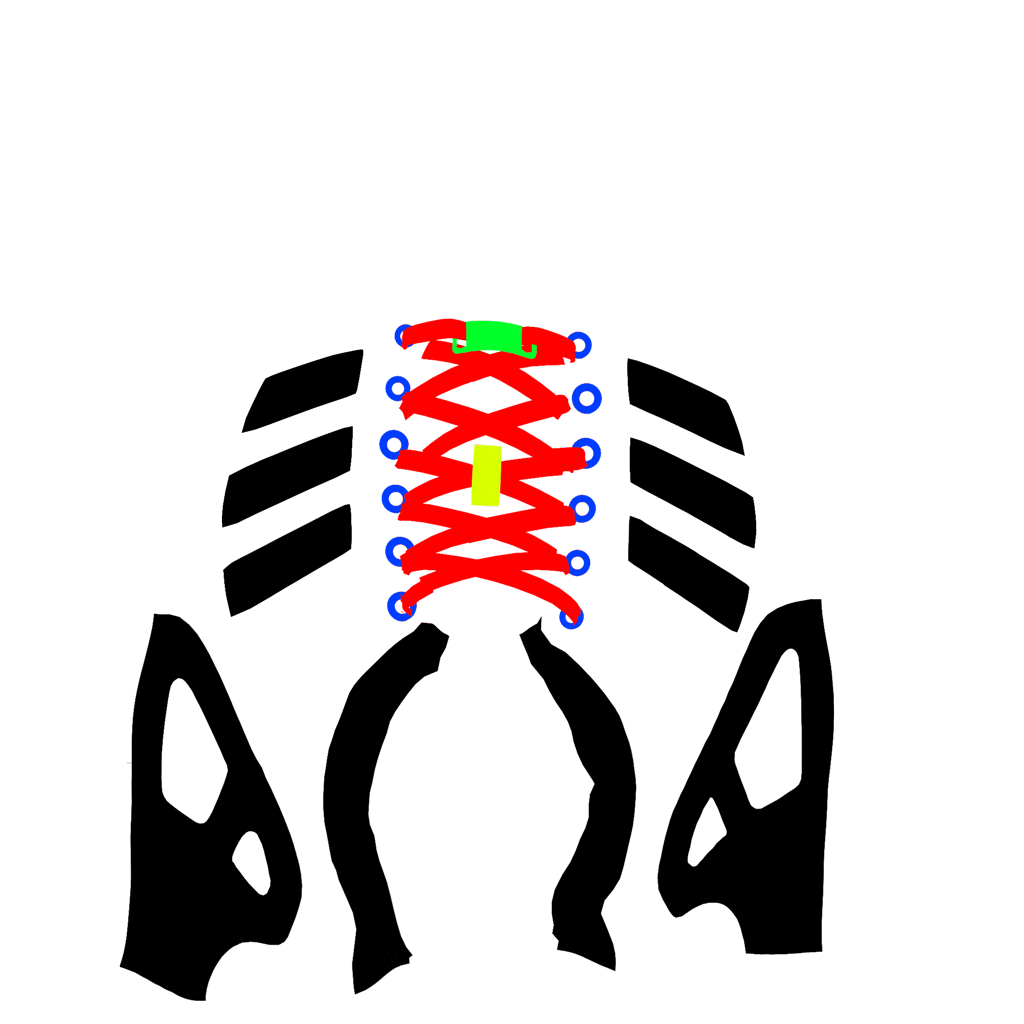
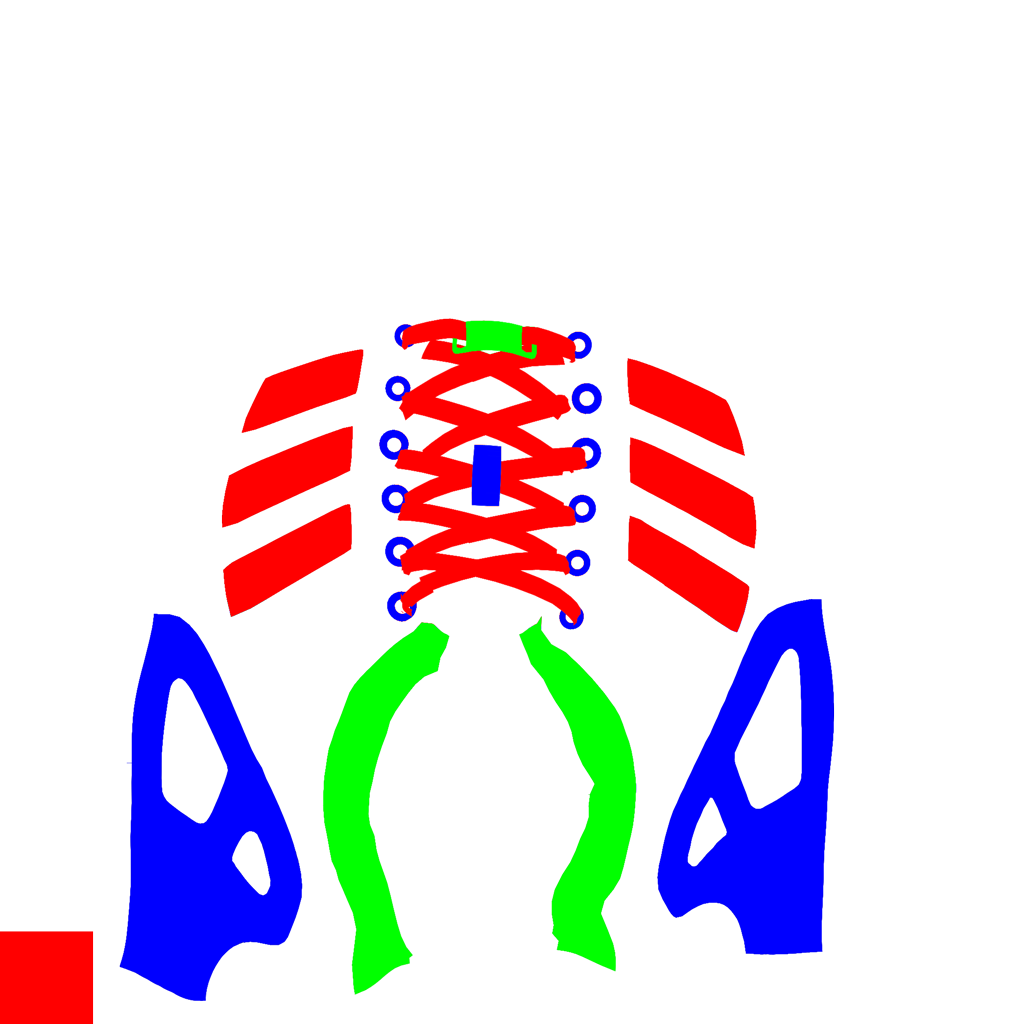
wireframe transitions

diff --git a/FluxOF/src/Animations/RenderRadar.cpp b/FluxOF/src/Animations/RenderRadar.cpp
@@ -16,9 +16,8 @@ void RenderRadar::selfSetup(){
     audioBufferSize = 256;
     audioIn.setup(44100, audioBufferSize);
     audioIn.start();
-    audioPixels.allocate(audioBufferSize,1, GL_RGB16F);
-    
-    ofDisa
+    audioPixels.allocate(audioBufferSize,1,3);
+    audioTex.allocate(audioBufferSize,1, GL_RGB16F);
     
     //  USERNAME TEXT
     //
@@ -36,18 +35,23 @@ void RenderRadar::selfSetup(){
     radarShader.loadFrag(getDataPath()+"shaders/radar.frag");
     radarTexture.allocate(assets->terrainResolution(),assets->terrainResolution());
     
+    terrainMeshTransition.loadFrag(getDataPath()+"shaders/terrainMeshTrans.frag");
+    terrainMeshTransitionTex.allocate(assets->terrainResolution(),assets->terrainResolution());
+    
     terrainTransition.loadFrag(getDataPath()+"shaders/terrainTrans.frag");
     terrainTransitionTex.allocate(assets->terrainResolution(),assets->terrainResolution());
     terrainTransitionTex.clear();
     
     ofDisableArbTex();
+    
+    terrainMeshTex.allocate(assets->terrainResolution(),assets->terrainResolution());
+    
     terrainTex.allocate(assets->terrainResolution(),assets->terrainResolution());
     terrainTex.begin();
     ofClear(0, 0);
     terrainTex.end();
     
     shoeTex.allocate(100, 100);
-    
     ofEnableArbTex();
 }
 
@@ -59,7 +63,9 @@ void RenderRadar::selfSetupGuis(){
     
     guiAdd(noiseShader);
     guiAdd(radarShader);
+    
     guiAdd(terrainTransition);
+    guiAdd(terrainMeshTransition);
     
     guiAdd(shoeTransition);
 }
@@ -79,6 +85,8 @@ void RenderRadar::selfSetupSystemGui(){
     
     sysGui->addLabel("Text");
     sysGui->add2DPad("Text_offset", ofVec2f(0,assets->terrainResolution()),ofVec2f(0,assets->terrainResolution()), &textOffset);
+    sysGui->addSlider("Text_Alpha", 0.0, 1.0, &textAlpha);
+    
 
 }
 
@@ -109,18 +117,27 @@ void RenderRadar::selfUpdate(){
         cameraEnable(false);
         setupRenderIsFlipped(true);
     }
-
+    
+    //  Audio
+    //
+//    for (int x = 0; x < audioBufferSize; x++){
+//        audioPixels.setColor(x, 0, ofFloatColor(abs(sin(audioIn.left[x]*100.0)),0.0,0.0,1.0));
+//    }
+//    audioTex.loadData(audioPixels);
+    
     //  USERNAME TEXTURE
     //
     {
         textTex.begin();
+        ofPushStyle();
         ofClear(0,0);
-        ofSetColor(255);
+        ofSetColor(255, textAlpha*255.0);
         ofPushMatrix();
         ofTranslate(textOffset);
         ofPoint textCenter = assets->font.getStringBoundingBox(text,0,0).getCenter();
         assets->font.drawString(text, -textCenter.x, -textCenter.y );
         ofPopMatrix();
+        ofPopStyle();
         textTex.end();
     }
     
@@ -171,7 +188,9 @@ void RenderRadar::selfUpdate(){
         terrainTransition.getShader().setUniformTexture("depthMap", assets->terrainDepthMap, 1);
         terrainTransition.getShader().setUniformTexture("maskTex", assets->terrainMask, 2);
         terrainTransition.getShader().setUniformTexture("normalMap", noiseTexture, 3);
-        terrainTransition.getShader().setUniformTexture("radarTex", radarTexture, 4);
+        terrainTransition.getShader().setUniformTexture("audioIn", audioTex, 4);
+        
+        terrainTransition.getShader().setUniformTexture("radarTex", radarTexture, 5);
         
         for(int i = 0; i < srcPalette.size(); i++){
             terrainTransition.getShader().setUniform3f("srcColor"+ofToString(i+1),
@@ -222,12 +241,31 @@ void RenderRadar::selfUpdate(){
         
         terrainTex.end();
     }
+    
+    {
+        terrainMeshTransitionTex.begin();
+        terrainMeshTransition.begin();
+        terrainMeshTransition.getShader().setUniformTexture("radarMask", radarTexture, 0);
+        terrainMeshTransition.getShader().setUniformTexture("terrainMask", assets->terrainMask, 1);
+        terrainMeshTransition.getShader().setUniformTexture("background", terrainTransitionTex.dst->getTextureReference(), 2);
+        terrainMeshTransition.getShader().setUniform3f("radarColor",radarColor.r,radarColor.g,radarColor.b);
+        glBegin(GL_QUADS);
+        glTexCoord2f(0, 0); glVertex3f(0, 0, 0);
+        glTexCoord2f(assets->terrainResolution(), 0); glVertex3f(assets->terrainResolution(), 0, 0);
+        glTexCoord2f(assets->terrainResolution(), assets->terrainResolution()); glVertex3f(assets->terrainResolution(), assets->terrainResolution(), 0);
+        glTexCoord2f(0,assets->terrainResolution());  glVertex3f(0,assets->terrainResolution(), 0);
+        glEnd();
+        terrainMeshTransition.end();
+        terrainMeshTransitionTex.end();
+        
+        terrainMeshTex.begin();
+        terrainMeshTransitionTex.draw(0,0);
+        terrainMeshTex.end();
+    }
 }
 
 void RenderRadar::selfDraw(){
     materials["MATERIAL 1"]->begin();
-
-    ofPushMatrix();
 
     ofSetColor(255);
     
@@ -241,6 +279,11 @@ void RenderRadar::selfDraw(){
     terrainTex.getTextureReference().bind();
     assets->terrainMesh.draw();
     terrainTex.getTextureReference().unbind();
+    
+    terrainMeshTex.getTextureReference().bind();
+    assets->terrainMesh.drawWireframe();
+    terrainMeshTex.getTextureReference().unbind();
+    
     ofEnableArbTex();
     
     ofPopMatrix();
@@ -278,8 +321,6 @@ void RenderRadar::selfDraw(){
     
     ofPopMatrix();
     
-    ofPopMatrix();
-  
     if(!simulatorMode){
         calibration->shoe[currentViewPort].end();
     }
@@ -291,6 +332,7 @@ void RenderRadar::selfDrawOverlay(){
     if(bDebug){
         
         ofPushMatrix();
+        
         ofScale(0.5, 0.5);
         terrainTex.draw(assets->terrainResolution()*0.25,0);
         
@@ -306,9 +348,12 @@ void RenderRadar::selfDrawOverlay(){
         assets->terrainNormalMap.draw(0,assets->terrainResolution());
         noiseTexture.draw(0,assets->terrainResolution()*2.0);
         radarTexture.draw(0,assets->terrainResolution()*3.0);
+        terrainMeshTex.draw(0,assets->terrainResolution()*4.0);
         ofPopMatrix();
         
         ofPopMatrix();
+        
+//        audioTex.draw(0,assets->terrainResolution()*0.5,assets->terrainResolution()*0.5,10);
         
         float paletteSize = 10;
         float margin = 15;

diff --git a/FluxOF/src/RenderEngine.h b/FluxOF/src/RenderEngine.h
@@ -19,6 +19,8 @@
 #include "RenderAssets.h"
 
 #include "PingPong.h"
+#include "UIShader.h"
+
 
 class RenderEngine : public UITime3DProject {
 public:
@@ -51,6 +53,7 @@ public:
     ofFbo               textTex;
     ofPoint             textOffset;
     string              text;
+    float               textAlpha;
     
     bool                simulatorMode;
     

diff --git a/FluxOF/src/Animations/RenderRadar.h b/FluxOF/src/Animations/RenderRadar.h
@@ -53,6 +53,10 @@ protected:
     
     ofFbo           terrainTex;
     
+    UIShader        terrainMeshTransition;
+    ofFbo           terrainMeshTransitionTex;
+    ofFbo           terrainMeshTex;
+    
     //  SHOES   TRANSITION
     //
     UIShader        shoeTransition;
